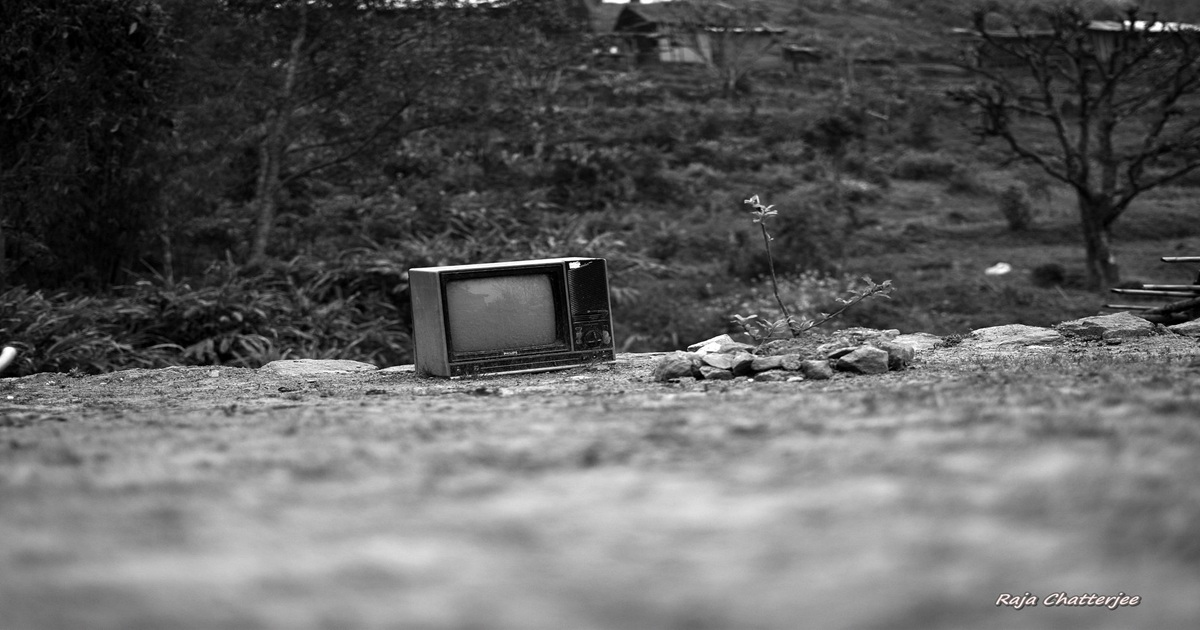
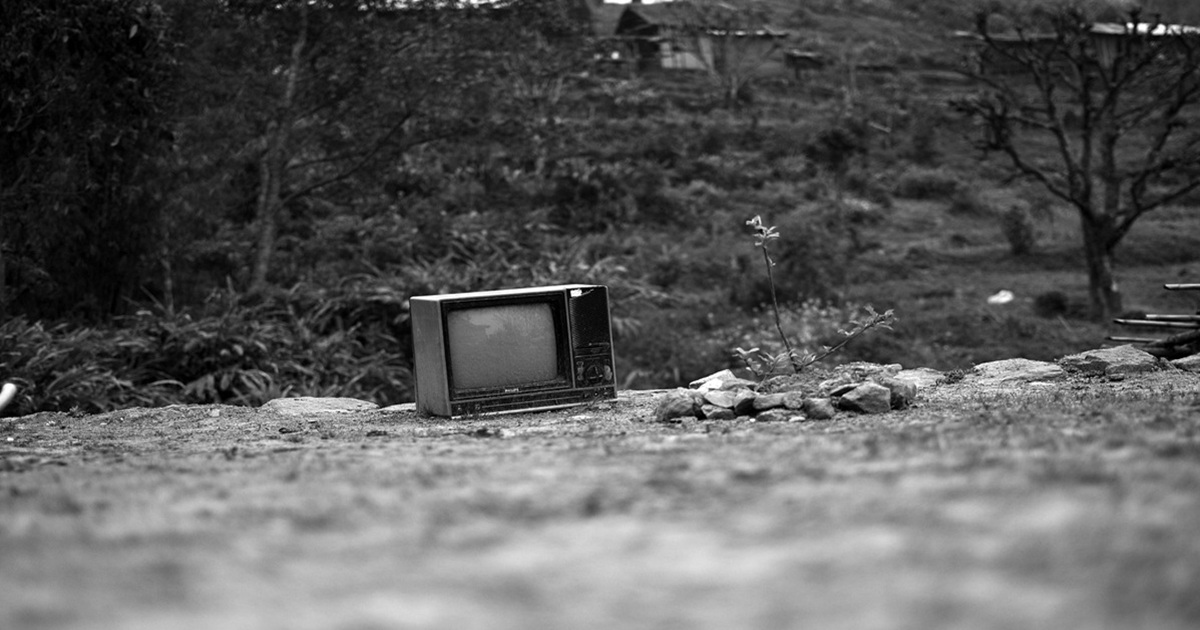
updated index.html

diff --git a/public/index.html b/public/index.html
@@ -4,33 +4,31 @@
   <meta charset="utf-8" />
   <meta name="viewport" content="width=device-width, initial-scale=1.0" />
 
-  <!-- 1. Open Graph Image Tags (Placed first) -->
-  <link rel="image_src" href="https://myportfolio2026-flax.vercel.app/cover1.jpg" />
-  <meta property="og:image" content="https://myportfolio2026-flax.vercel.app/cover1.jpg" />
-  <meta property="og:image:url" content="https://myportfolio2026-flax.vercel.app/cover1.jpg" />
-  <meta property="og:image:secure_url" content="https://myportfolio2026-flax.vercel.app/cover1.jpg" />
+  <!-- GitHub CDN Direct Raw Image Link -->
+  <link rel="image_src" href="https://raw.githubusercontent.com/InquisitiveAboutReact/MyWebsite2026/main/public/assets/cover1.jpg" />
+  <meta property="og:image" content="https://raw.githubusercontent.com/InquisitiveAboutReact/MyWebsite2026/main/public/assets/cover1.jpg" />
+  <meta property="og:image:url" content="https://raw.githubusercontent.com/InquisitiveAboutReact/MyWebsite2026/main/public/assets/cover1.jpg" />
+  <meta property="og:image:secure_url" content="https://raw.githubusercontent.com/InquisitiveAboutReact/MyWebsite2026/main/public/assets/cover1.jpg" />
   <meta property="og:image:type" content="image/jpeg" />
   <meta property="og:image:width" content="1200" />
   <meta property="og:image:height" content="630" />
   <meta property="og:image:alt" content="Raj portfolio preview" />
 
-  <!-- 2. Core Open Graph Page Meta -->
+  <!-- Core Open Graph Meta -->
   <meta property="og:type" content="website" />
   <meta property="og:url" content="https://myportfolio2026-flax.vercel.app/" />
-  <meta property="og:title" content="Raja Chatterjee - Technical Delivery and Program Manager" />
+  <meta property="og:title" content="Raj - Technical Delivery and Program Manager" />
   <meta property="og:description" content="17+ years leading enterprise delivery across Oracle Fusion HCM, Salesforce, Guidewire, and modern CI/CD." />
 
-  <!-- 3. Twitter / X Card Meta -->
+  <!-- Twitter Card -->
   <meta name="twitter:card" content="summary_large_image" />
-  <meta name="twitter:title" content="Raja Chatterjee - Technical Delivery and Program Manager" />
-  <meta name="twitter:description" content="18+ years leading enterprise delivery across Oracle Fusion HCM, Salesforce, Guidewire, and modern CI/CD." />
-  <meta name="twitter:image" content="https://myportfolio2026-flax.vercel.app/cover1.jpg" />
+  <meta name="twitter:title" content="Raj - Technical Delivery and Program Manager" />
+  <meta name="twitter:description" content="17+ years leading enterprise delivery across Oracle Fusion HCM, Salesforce, Guidewire, and modern CI/CD." />
+  <meta name="twitter:image" content="https://raw.githubusercontent.com/InquisitiveAboutReact/MyWebsite2026/main/public/assets/cover1.jpg" />
 
-  <!-- 4. Basic SEO -->
-  <title>Raja Chatterjee - Technical Delivery and Program Manager</title>
-  <meta name="description" content="18+ years leading enterprise delivery across Oracle Fusion HCM, Salesforce, Guidewire, and modern CI/CD." />
-
-  <!-- Any JavaScript / Framework <script> tags go below this line -->
+  <!-- Basic Page Info -->
+  <title>Raj - Technical Delivery and Program Manager</title>
+  <meta name="description" content="17+ years leading enterprise delivery across Oracle Fusion HCM, Salesforce, Guidewire, and modern CI/CD." />
 </head>
   <body>
     <noscript>You need to enable JavaScript to run this app.</noscript>
